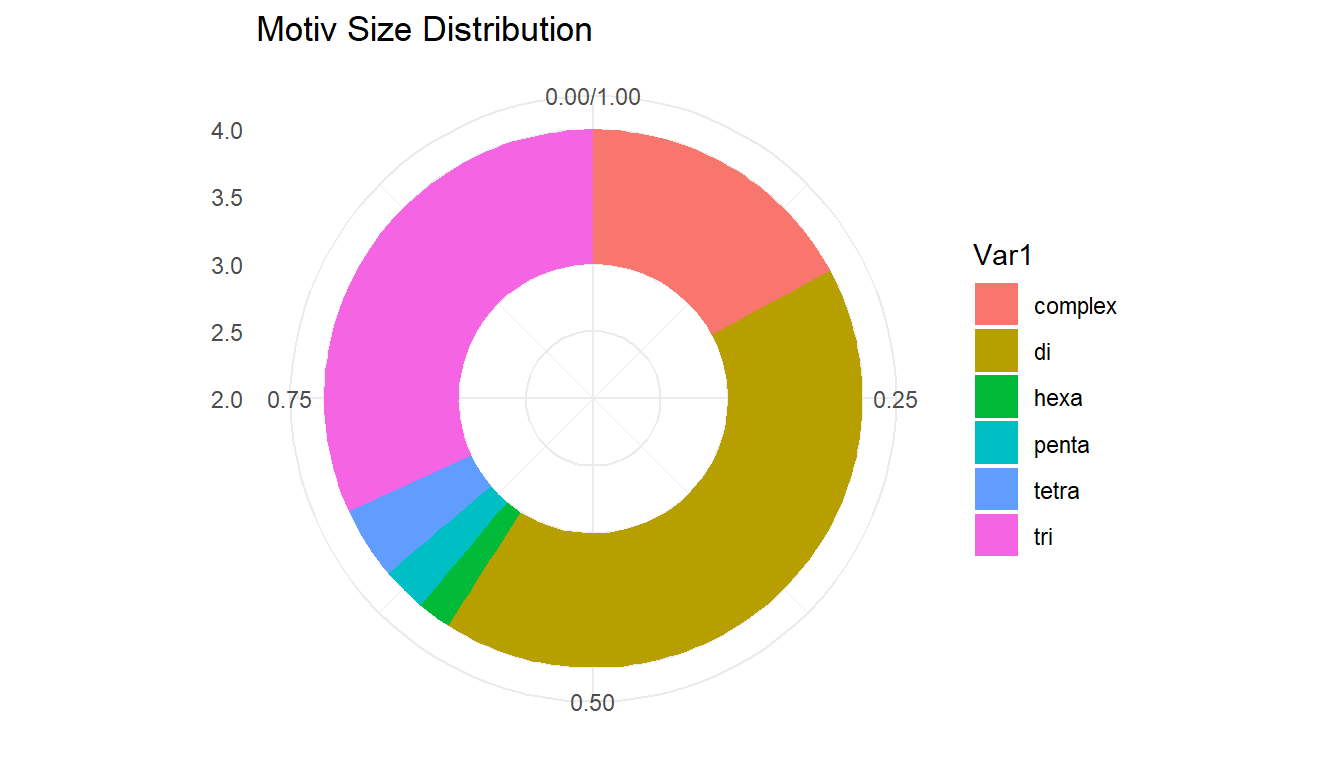
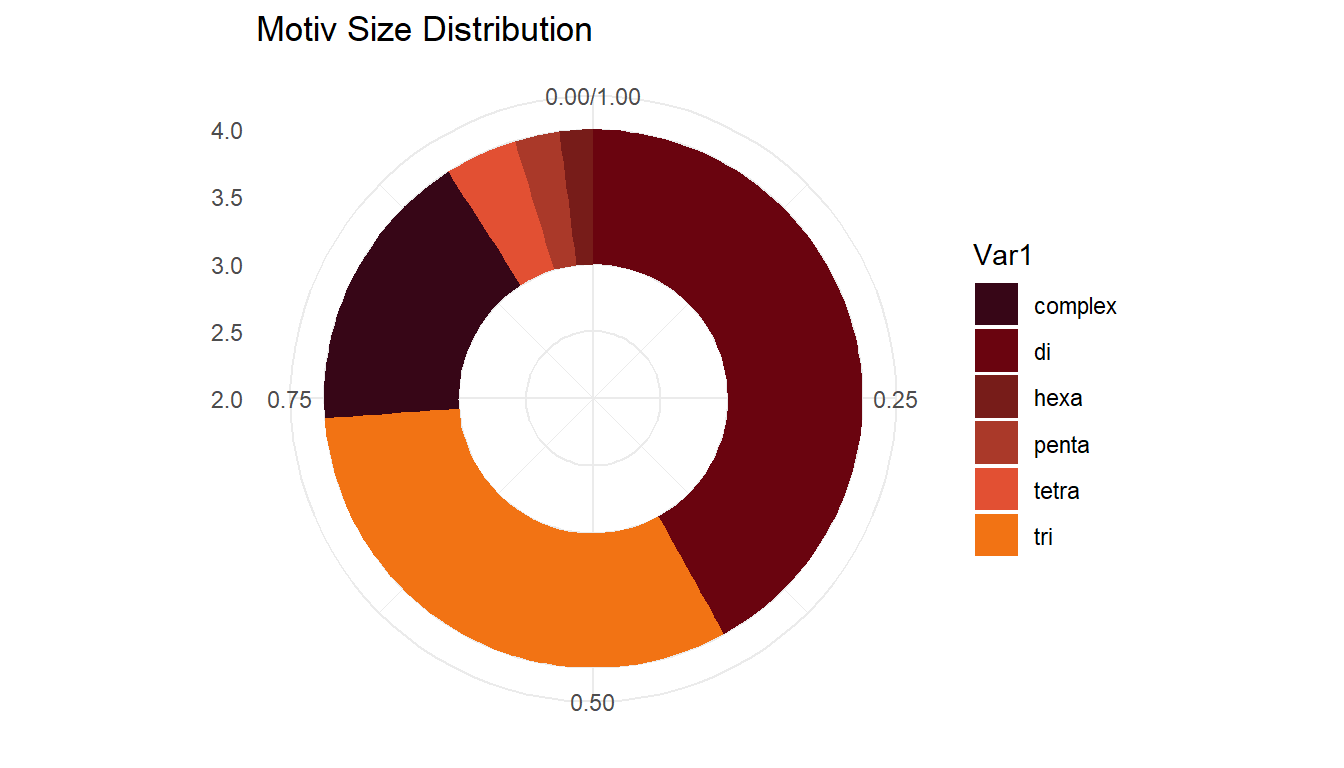
Con los colores

Changed region(s): [[0.2188, 0.1562, 0.6562, 0.875], [0.7188, 0.3438, 0.7812, 0.75]]

diff --git a/about.html b/about.html
@@ -264,6 +264,24 @@ pre code {
 </div>
 <div>
 <p><img src="about_files/figure-html/unnamed-chunk-9-1.png" width="576" style="display: block; margin: auto;" /></p>
+<pre><code>## List of 2
+##  $ axis.text.x    :List of 11
+##   ..$ family       : NULL
+##   ..$ face         : NULL
+##   ..$ colour       : NULL
+##   ..$ size         : NULL
+##   ..$ hjust        : num 1
+##   ..$ vjust        : NULL
+##   ..$ angle        : num 35
+##   ..$ lineheight   : NULL
+##   ..$ margin       : NULL
+##   ..$ debug        : NULL
+##   ..$ inherit.blank: logi FALSE
+##   ..- attr(*, &quot;class&quot;)= chr [1:2] &quot;element_text&quot; &quot;element&quot;
+##  $ legend.position: chr &quot;none&quot;
+##  - attr(*, &quot;class&quot;)= chr [1:2] &quot;theme&quot; &quot;gg&quot;
+##  - attr(*, &quot;complete&quot;)= logi FALSE
+##  - attr(*, &quot;validate&quot;)= logi TRUE</code></pre>
 </div>
 </div>
 </div>
